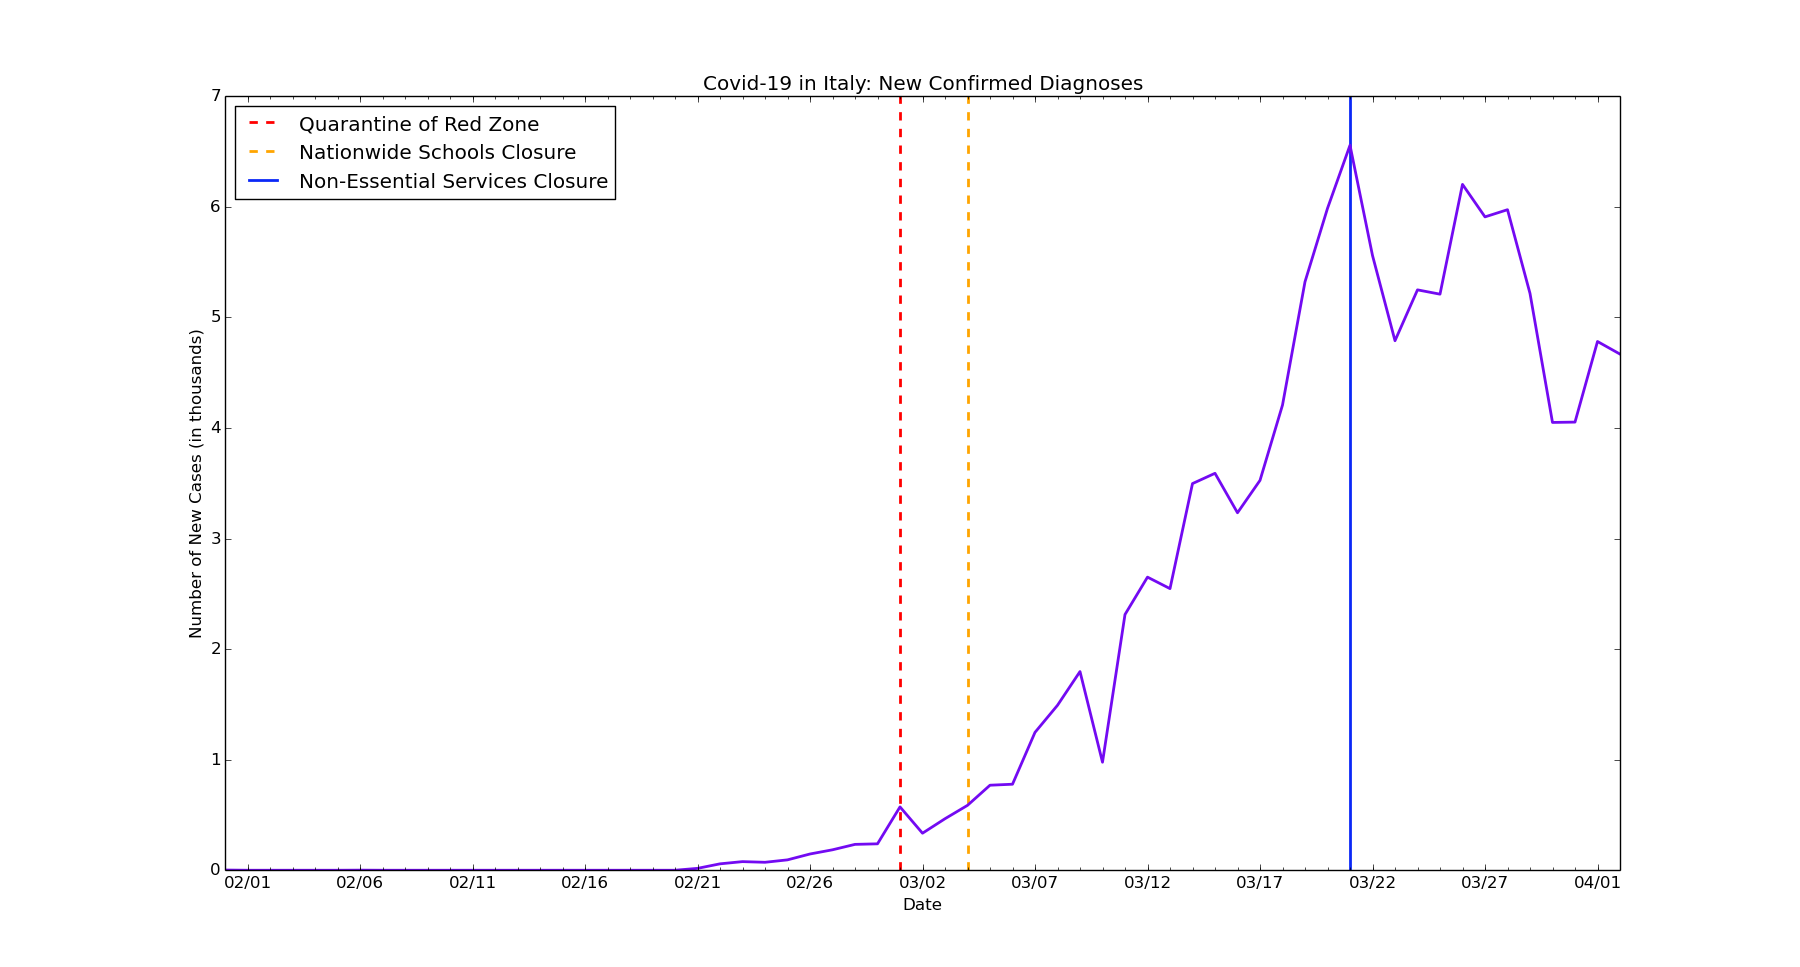
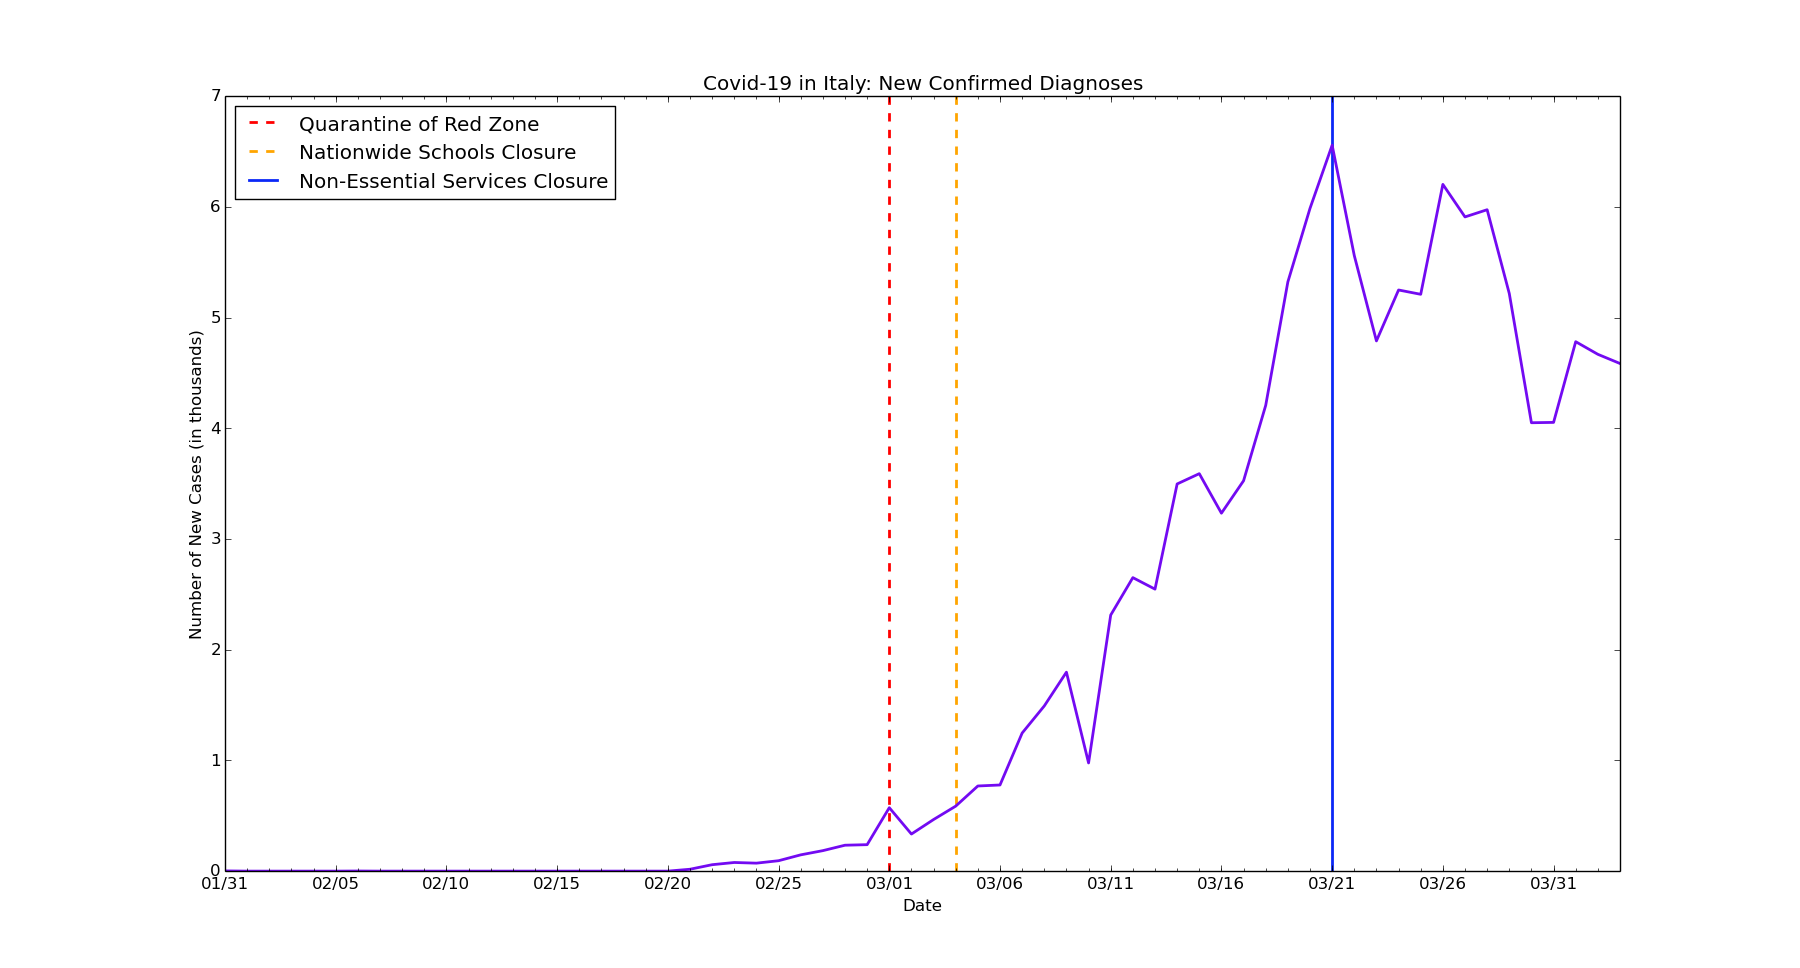
chore: Update data for Italy

diff --git a/italy/it-nc.py b/italy/it-nc.py
@@ -6,7 +6,7 @@ import matplotlib.dates as mdates
 import matplotlib.ticker as ticker
 from matplotlib.dates import MO, TU, WE, TH, FR, SA, SU
 
-dates = ['1/31/2020', '2/1/2020', '2/2/2020', '2/3/2020', '2/4/2020', '2/5/2020', '2/6/2020', '2/7/2020', '2/8/2020', '2/9/2020', '2/10/2020', '2/11/2020', '2/12/2020', '2/13/2020', '2/14/2020', '2/15/2020', '2/16/2020', '2/17/2020', '2/18/2020', '2/19/2020', '2/20/2020', '2/21/2020', '2/22/2020', '2/23/2020', '2/24/2020', '2/25/2020', '2/26/2020', '2/27/2020', '2/28/2020', '2/29/2020', '3/1/2020', '3/2/2020', '3/3/2020', '3/4/2020', '3/5/2020', '3/6/2020', '3/7/2020', '3/8/2020', '3/9/2020', '3/10/2020', '3/11/2020', '3/12/2020', '3/13/2020', '3/14/2020', '3/15/2020', '3/16/2020', '3/17/2020', '3/18/2020', '3/19/2020', '3/20/2020', '3/21/2020', '3/22/2020', '3/23/2020', '3/24/2020', '3/25/2020', '3/26/2020', '3/27/2020', '3/28/2020', '3/29/2020', '3/30/2020', '3/31/2020', '4/1/2020', '4/2/2020']
+dates = ['1/31/2020', '2/1/2020', '2/2/2020', '2/3/2020', '2/4/2020', '2/5/2020', '2/6/2020', '2/7/2020', '2/8/2020', '2/9/2020', '2/10/2020', '2/11/2020', '2/12/2020', '2/13/2020', '2/14/2020', '2/15/2020', '2/16/2020', '2/17/2020', '2/18/2020', '2/19/2020', '2/20/2020', '2/21/2020', '2/22/2020', '2/23/2020', '2/24/2020', '2/25/2020', '2/26/2020', '2/27/2020', '2/28/2020', '2/29/2020', '3/1/2020', '3/2/2020', '3/3/2020', '3/4/2020', '3/5/2020', '3/6/2020', '3/7/2020', '3/8/2020', '3/9/2020', '3/10/2020', '3/11/2020', '3/12/2020', '3/13/2020', '3/14/2020', '3/15/2020', '3/16/2020', '3/17/2020', '3/18/2020', '3/19/2020', '3/20/2020', '3/21/2020', '3/22/2020', '3/23/2020', '3/24/2020', '3/25/2020', '3/26/2020', '3/27/2020', '3/28/2020', '3/29/2020', '3/30/2020', '3/31/2020', '4/1/2020', '4/2/2020', '4/3/2020']
 
 # format dates
 x_values = [dt.datetime.strptime(d, "%m/%d/%Y").date() for d in dates]
@@ -31,7 +31,7 @@ plt.axvline(dt.datetime(2020, 3, 21), color='#0b28f7', linewidth=2, label='nones
 ax.get_yaxis().set_major_formatter(ticker.FuncFormatter(lambda x, pos: format(int(x/1000), ',')))
 
 # new cases by day
-new_cases = [2, 0, 0, 0, 0, 0, 1, 0, 0, 0, 0, 0, 0, 0, 0, 0, 0, 0, 0, 0, 0, 17, 58, 78, 72, 94, 147, 185, 234, 239, 573, 335, 466, 587, 769, 778, 1247, 1492, 1797, 977, 2313, 2651, 2547, 3497, 3590, 3233, 3526, 4207, 5322, 5986, 6557, 5560, 4789, 5249, 5210, 6203, 5909, 5974, 5217, 4050, 4053, 4782, 4668]
+new_cases = [2, 0, 0, 0, 0, 0, 1, 0, 0, 0, 0, 0, 0, 0, 0, 0, 0, 0, 0, 0, 0, 17, 58, 78, 72, 94, 147, 185, 234, 239, 573, 335, 466, 587, 769, 778, 1247, 1492, 1797, 977, 2313, 2651, 2547, 3497, 3590, 3233, 3526, 4207, 5322, 5986, 6557, 5560, 4789, 5249, 5210, 6203, 5909, 5974, 5217, 4050, 4053, 4782, 4668, 4585]
 
 # text labels
 plt.title('Covid-19 in Italy: New Confirmed Diagnoses')

diff --git a/italy/it-rvd.py b/italy/it-rvd.py
@@ -6,7 +6,7 @@ import matplotlib.dates as mdates
 import matplotlib.ticker as ticker
 from matplotlib.dates import MO, TU, WE, TH, FR, SA, SU
 
-dates = ['2/20/2020', '2/21/2020', '2/22/2020', '2/23/2020', '2/24/2020', '2/25/2020', '2/26/2020', '2/27/2020', '2/28/2020', '2/29/2020', '3/1/2020', '3/2/2020', '3/3/2020', '3/4/2020', '3/5/2020', '3/6/2020', '3/7/2020', '3/8/2020', '3/9/2020', '3/10/2020', '3/11/2020', '3/12/2020', '3/13/2020', '3/14/2020', '3/15/2020', '3/16/2020', '3/17/2020', '3/18/2020', '3/19/2020', '3/20/2020', '3/21/2020', '3/22/2020', '3/23/2020', '3/24/2020', '3/25/2020', '3/26/2020', '3/27/2020', '3/28/2020', '3/29/2020', '3/30/2020', '3/31/2020', '4/1/2020', '4/2/2020']
+dates = ['2/20/2020', '2/21/2020', '2/22/2020', '2/23/2020', '2/24/2020', '2/25/2020', '2/26/2020', '2/27/2020', '2/28/2020', '2/29/2020', '3/1/2020', '3/2/2020', '3/3/2020', '3/4/2020', '3/5/2020', '3/6/2020', '3/7/2020', '3/8/2020', '3/9/2020', '3/10/2020', '3/11/2020', '3/12/2020', '3/13/2020', '3/14/2020', '3/15/2020', '3/16/2020', '3/17/2020', '3/18/2020', '3/19/2020', '3/20/2020', '3/21/2020', '3/22/2020', '3/23/2020', '3/24/2020', '3/25/2020', '3/26/2020', '3/27/2020', '3/28/2020', '3/29/2020', '3/30/2020', '3/31/2020', '4/1/2020', '4/2/2020', '4/3/2020']
 
 # format dates
 x_values = [datetime.datetime.strptime(d, "%m/%d/%Y").date() for d in dates]
@@ -24,10 +24,10 @@ ax.xaxis.set_minor_locator(mdates.WeekdayLocator(byweekday=(MO, TU, WE, TH, FR, 
 ax.get_yaxis().set_major_formatter(ticker.FuncFormatter(lambda x, pos: format(int(x/1000), ',')))
 
 # total recoveries
-recoveries = [0, 1, 2, 2, 2, 3, 3, 45, 46, 50, 90, 149, 160, 276, 414, 523, 589, 622, 724, 1004, 1045, 1258, 1439, 1966, 2335, 2749, 2941, 4025, 4440, 5129, 6072, 7024, 7432, 8326, 9362, 10361, 10950, 12384, 13030, 14620, 15729, 16847, 18278]
+recoveries = [0, 1, 2, 2, 2, 3, 3, 45, 46, 50, 90, 149, 160, 276, 414, 523, 589, 622, 724, 1004, 1045, 1258, 1439, 1966, 2335, 2749, 2941, 4025, 4440, 5129, 6072, 7024, 7432, 8326, 9362, 10361, 10950, 12384, 13030, 14620, 15729, 16847, 18278, 19758]
 
 # total deaths
-deaths = [0, 1, 2, 3, 6, 10, 12, 17, 21, 29, 34, 52, 79, 107, 148, 197, 233, 366, 463, 631, 827, 1016, 1266, 1441, 1809, 2158, 2503, 2978, 3405, 4032, 4825, 5476, 6077, 6820, 7503, 8215, 9134, 10023, 10779, 11591, 12428, 13155, 13915]
+deaths = [0, 1, 2, 3, 6, 10, 12, 17, 21, 29, 34, 52, 79, 107, 148, 197, 233, 366, 463, 631, 827, 1016, 1266, 1441, 1809, 2158, 2503, 2978, 3405, 4032, 4825, 5476, 6077, 6820, 7503, 8215, 9134, 10023, 10779, 11591, 12428, 13155, 13915, 14681]
 
 # create the graph
 plt.plot(x_values, recoveries, color='#12cfdf', linewidth=2)
